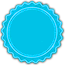
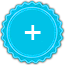
changement image et amlioration script pour news.php

Changed region(s): [[0.3692, 0.3692, 0.6462, 0.6154]]

diff --git a/public/css/style.css b/public/css/style.css
@@ -147,16 +147,11 @@ textarea:-moz-placeholder {
 	width: 70px;
 	height: 70px;
 	display:block;
-	
-/*	margin-top: 90px;*/
 	margin-top: 0px;
 	cursor:pointer;
-/*	background: #fff url('../media/image/loupe.png') center center no-repeat;*/
 	background: transparent url('../media/image/search.png') center center no-repeat;
 	float:right;
 	margin-right: -70px;
-/*	border: 2px solid #313131;
-	border-left: 2px solid #fff;*/
 
 	transition-property: background,border,margin-right;
 	transition-duration: 1s;
@@ -170,7 +165,6 @@ textarea:-moz-placeholder {
 	-ms-transition-duration: 1s;
 }
 #image_front:hover{
-/*	background: #cecdce url('../media/image/loupe.png') center center no-repeat;*/
 	border: none;
 	margin-right: -90px;
 }
@@ -180,13 +174,10 @@ textarea:-moz-placeholder {
 		
 	margin-top: 0px;
 	cursor:pointer;
-/*	background: #313131 url('../media/image/loupe.png') center center no-repeat;*/
 	background: transparent url('../media/image/search.png') center center no-repeat;
 	float:left;
 	
 	margin-left: -70px;
-/*	border: 2px solid #fff;
-	border-right: 2px solid #313131;*/
 
 	transition-property: background,border,margin-left;
 	transition-duration: 1s;
@@ -200,7 +191,6 @@ textarea:-moz-placeholder {
 	-ms-transition-duration: 1s;
 }
 #image_back:hover{
-/*	background: #cecdce url('../media/image/loupe.png') center center no-repeat;*/
 	border: none;
 	margin-left: -90px;
 
@@ -222,11 +212,11 @@ textarea:-moz-placeholder {
 }
 #selecteur{
 	position: absolute;
-/*	top: 0;
-	left: 0;*/
+
 	top: 10%;
 	left: 0;
 	height:78%;
+	
 	box-shadow: 3px 0 5px rgba(10,10,10,0.9);
 	-o-box-shadow: 3px 0 5px rgba(10,10,10,0.9);
 	-ms-box-shadow: 3px 0 5px rgba(10,10,10,0.9);
@@ -235,11 +225,11 @@ textarea:-moz-placeholder {
 }
 #search_form{
 	position: absolute;
-/*	top: 0;
-	right: 0;*/
+
 	top: 10%;
 	right: 0;
 	height:78%;
+	
 	box-shadow: -3px 0 5px rgba(10,10,10,0.9);
 	-o-box-shadow: -3px 0 5px rgba(10,10,10,0.9);
 	-ms-box-shadow: -3px 0 5px rgba(10,10,10,0.9);
@@ -332,7 +322,7 @@ textarea:-moz-placeholder {
 	height: 24px;
 	text-align:center;
 }
-.button{
+#search_form .button{
 	display:block;
 	margin:20px auto;
 	width: 165px;
@@ -348,19 +338,23 @@ textarea:-moz-placeholder {
 	font-family: 'baphomet', helvetica;
 	font-size: 18px;
 	
-/*	box-shadow: 5px 3px 5px rgba(0,0,0,0.7),
-				inset 0 0 5px rgba(10,10,10,0.9);*/
+	box-shadow:inset 0 0 5px rgba(10,10,10,0.9);
+	-o-box-shadow:inset 0 0 5px rgba(10,10,10,0.9);
+	-moz-box-shadow:inset 0 0 5px rgba(10,10,10,0.9);
+	-webkit-box-shadow:inset 0 0 5px rgba(10,10,10,0.9);
+	-ms-box-shadow:inset 0 0 5px rgba(10,10,10,0.9);
+				
 	transition: all .2s ease-in;
 	-moz-transition: all.2s ease-in; 
 	-webkit-transition:all .2s ease-in; 
 	-o-transition: all .2s ease-in; 
 	-ms-transition: all .2s ease-in
 }
-.button:hover{
+#search_form .button:hover{
 	background: transparent url('../media/image/lastrope_min.png') left bottom no-repeat ;
 	text-shadow: 0px 0px 9px #eee;
 }
-.button:active{
+#search_form .button:active{
 	box-shadow:inset 5px 3px 5px rgba(0,0,0,0.7);
 }
 #selecteur h3,#search_form h3{

diff --git a/public/js/jfunction.js b/public/js/jfunction.js
@@ -56,6 +56,9 @@ $(document).ready(function(){
 				},500);
 			},800);
 			
+			setTimeout(function(){
+				$('#image_front').css({'background-image':'url(public/media/image/search.png)'});
+			},900);
 			isNavOpen = false;
 		} else {
 			content_search.css({display:'none'});
@@ -68,6 +71,8 @@ $(document).ready(function(){
 			setTimeout(function(){
 				content_search.fadeIn('slow');
 			},800);
+			
+			$('#image_front').css({'background-image':'url(public/media/image/search_moins.png)'});
 			isNavOpen = true;
 		}
 	});
@@ -85,6 +90,9 @@ $(document).ready(function(){
 				},500);
 			},800);
 			
+			setTimeout(function(){
+				$('#image_back').css({'background-image':'url(public/media/image/search.png)'});
+			},900);
 			isSearchOpen = false;
 		} else {
 			content_search.css({display:'none'});
@@ -97,6 +105,8 @@ $(document).ready(function(){
 			setTimeout(function(){
 				content_search.fadeIn('slow');
 			},800);
+			
+			$('#image_back').css({'background-image':'url(public/media/image/search_moins.png)'});
 			isSearchOpen = true;
 		}
 	});
